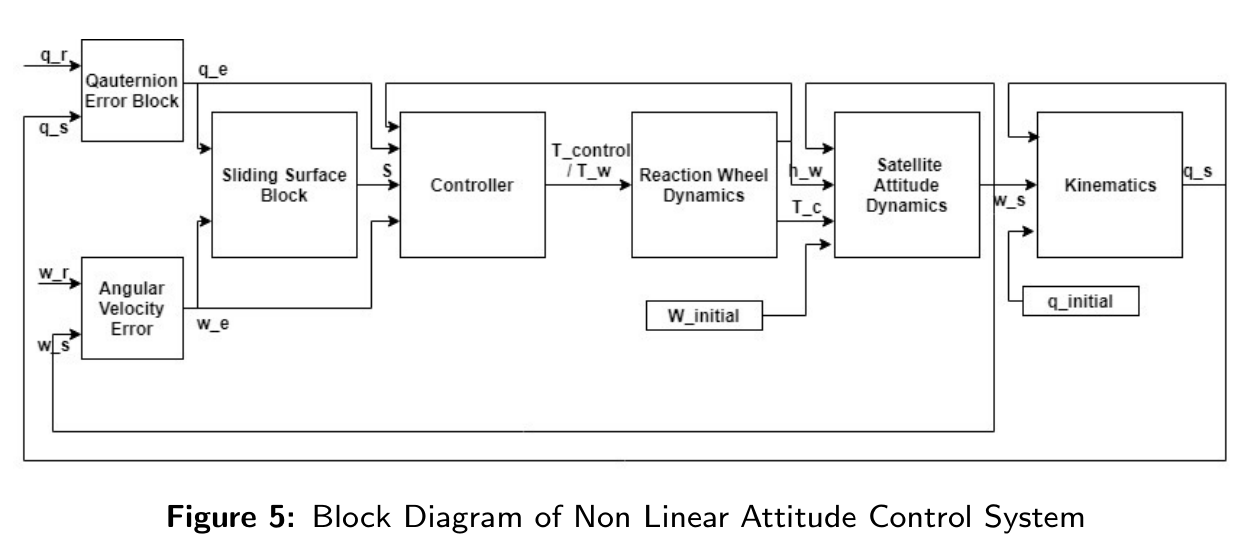
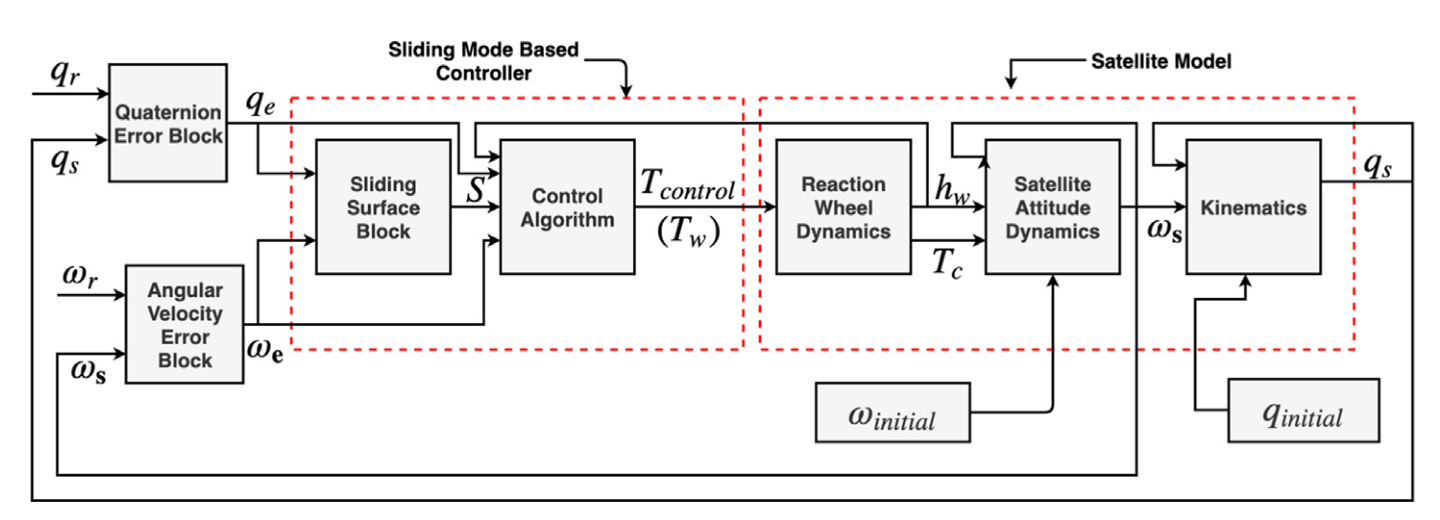
Refine satellite attitude research presentation

Changed region(s): [[0.0, 0.0615, 0.9905, 0.9846]]

diff --git a/projects/satellite-attitude-control.html b/projects/satellite-attitude-control.html
@@ -24,9 +24,12 @@
                 Satellite Attitude Maneuver</h1>
             <p class="sub-role" style="margin-bottom: 8px;"><a href="../index.html#about">Debajyoti
                     Chakrabarti</a></p>
-            <p class="sub-role" style="margin-bottom: 8px;">B.Tech Final-Year Thesis &middot; Indian Institute of
-                Space Science and Technology (IIST) &middot; 2019</p>
-            <p class="sub-role" style="margin-bottom: 14px;">Supervisor: Dr. N. Selvaganesan</p>
+            <p class="sub-role" style="margin-bottom: 8px;">B.Tech Final-Year Thesis &middot; <a
+                    href="https://www.iist.ac.in/" target="_blank" rel="noopener">Indian Institute of Space Science
+                    and Technology (IIST)</a> &middot; 2019</p>
+            <p class="sub-role" style="margin-bottom: 14px;">Advisor: <a
+                    href="https://www.iist.ac.in/people-faculty-profile/n-selvaganesan" target="_blank"
+                    rel="noopener">Dr. N. Selvaganesan</a></p>
             <div class="tag-row" style="margin-top: 12px;">
                 <span class="tag">Spacecraft GNC</span>
                 <span class="tag">Satellite Attitude Control</span>
@@ -50,7 +53,7 @@
 
         <section id="overview" class="section research-section">
             <h2>Overview</h2>
-            <p>My undergraduate thesis studied advanced control algorithms for three-axis satellite attitude
+            <p>The undergraduate thesis studied advanced control algorithms for three-axis satellite attitude
                 maneuvering using reaction wheels. The work developed a nonlinear quaternion-based spacecraft
                 model, included reaction-wheel actuator dynamics, and compared integer-order and fractional-order
                 control strategies for attitude stabilization.</p>
@@ -84,13 +87,12 @@
                 fractional-order PD&beta;-SMC, and modified-reaching-law versions of both controllers. The modified
                 reaching law was introduced to reduce the chattering associated with conventional switching-based
                 sliding-mode control while retaining fast convergence and robustness.</p>
-            <figure class="research-figure">
-                <img src="../assets/images/projects/satellite_attitude_control/nonlinear_control_architecture.png"
+            <figure class="research-figure figure-medium">
+                <img src="../assets/images/projects/satellite_attitude_control/modified_reaching_control_law.png"
                     class="card-image"
-                    alt="Closed-loop nonlinear attitude-control architecture with error blocks, sliding surface, controller, reaction wheels, satellite dynamics, and kinematics." />
-                <figcaption class="figure-caption">Closed-loop nonlinear attitude-control architecture with
-                    sliding surface, reaction-wheel dynamics, spacecraft dynamics, and quaternion feedback.
-                </figcaption>
+                    alt="Published equations for the modified reaching law and corresponding PD sliding-mode control torque." />
+                <figcaption class="figure-caption">Modified reaching law and corresponding nonlinear control
+                    torque from the published paper.</figcaption>
             </figure>
         </section>
 

diff --git a/index.html b/index.html
@@ -302,13 +302,14 @@
                     <div class="feature-media is-wide">
                         <img src="assets/images/projects/satellite_attitude_control/card_control_architecture.png"
                             class="card-image"
-                            alt="Nonlinear satellite attitude-control architecture with quaternion and angular-velocity errors, sliding surface, controller, reaction wheels, spacecraft dynamics, and kinematics" />
+                            alt="Published block diagram of the sliding-mode satellite attitude-control system" />
                     </div>
                     <div class="feature-body">
                         <div class="feature-heading">
                             <h3>Advanced Control Algorithms for Satellite Attitude Maneuver</h3>
                         </div>
-                        <p class="status-line">B.Tech Final-Year Thesis &middot; IIST &middot; 2019</p>
+                        <p class="status-line">B.Tech Final-Year Thesis &middot; <a href="https://www.iist.ac.in/"
+                                target="_blank" rel="noopener">IIST</a> &middot; 2019</p>
                         <div class="tag-row" style="margin-top: 10px;">
                             <span class="tag">Spacecraft GNC</span>
                             <span class="tag">Nonlinear Control</span>
